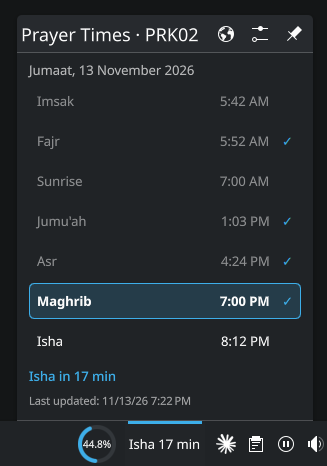
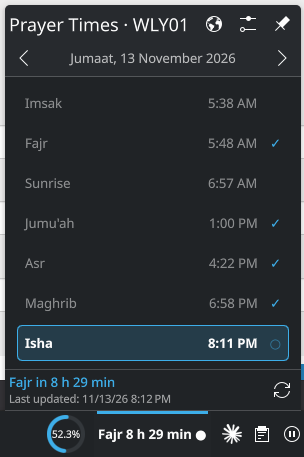
docs: updated widget preview, add settings preview to the README

diff --git a/README.md b/README.md
@@ -44,6 +44,9 @@ Or download `solat.widget.plasmoid` (and optionally `solat.lockscreen.plasmoid`)
 
 1. Right-click a panel → **Add Widgets** → **Waktu Solat**.
 2. Right-click the widget → **Configure** (or the gear in its popup) and pick your zone. The default is PRK02.
+
+<img src="docs/preview-settings.png" width="520" alt="Widget settings: state, zone, language, reminders and lock screen">
+
 3. Optional: tick **Show prayer times on the lock screen** in the same dialog. Background image, dimming and position are set in System Settings → Screen Locking → Appearance.
 
 Upgrading from the old `solat-lock` package: settings and today's check marks are imported on first start. The old `solat` command and systemd services are gone; `systemctl --user disable --now solat.timer solat.path solat-notify.service` removes the leftovers.
